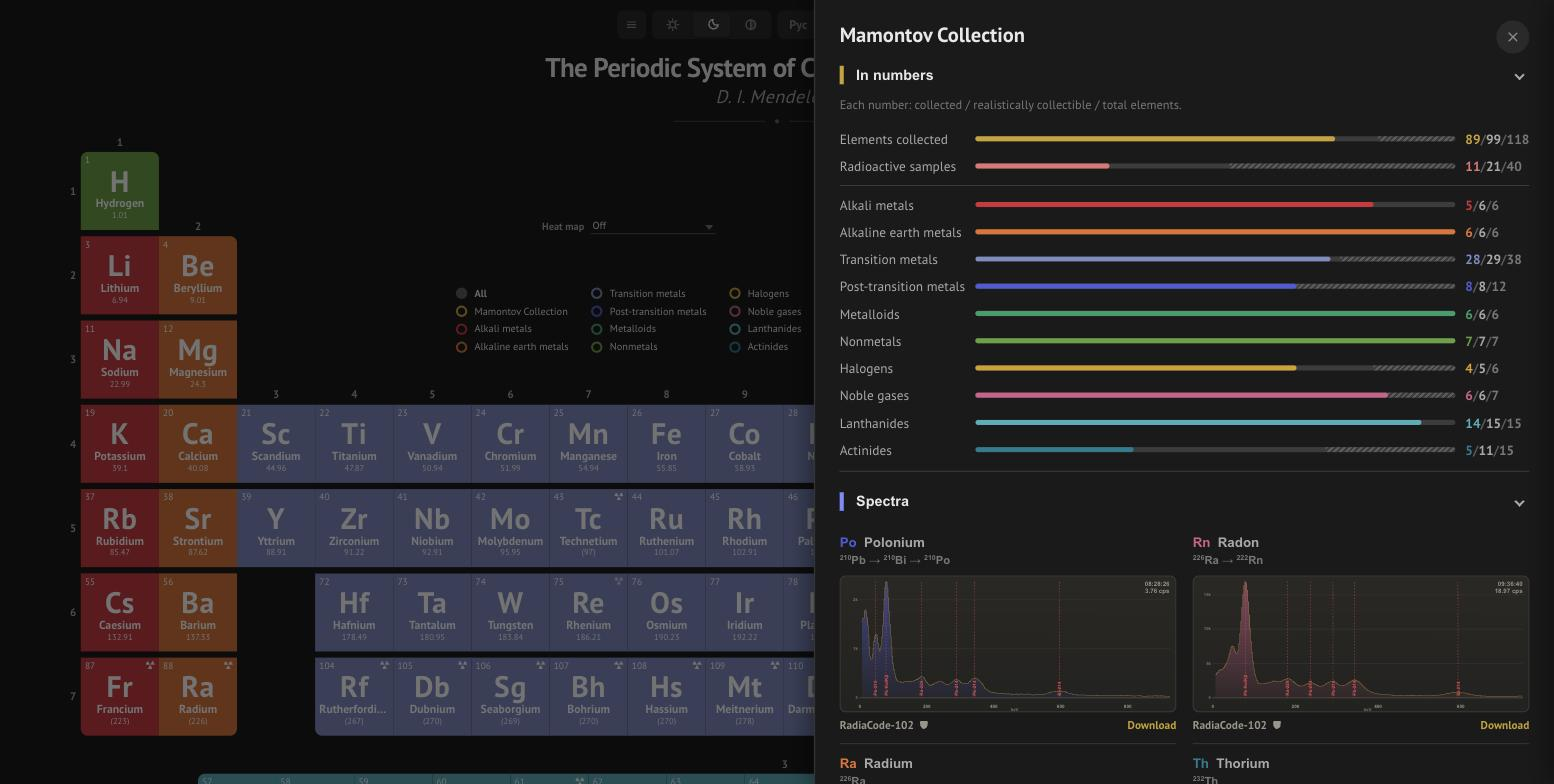
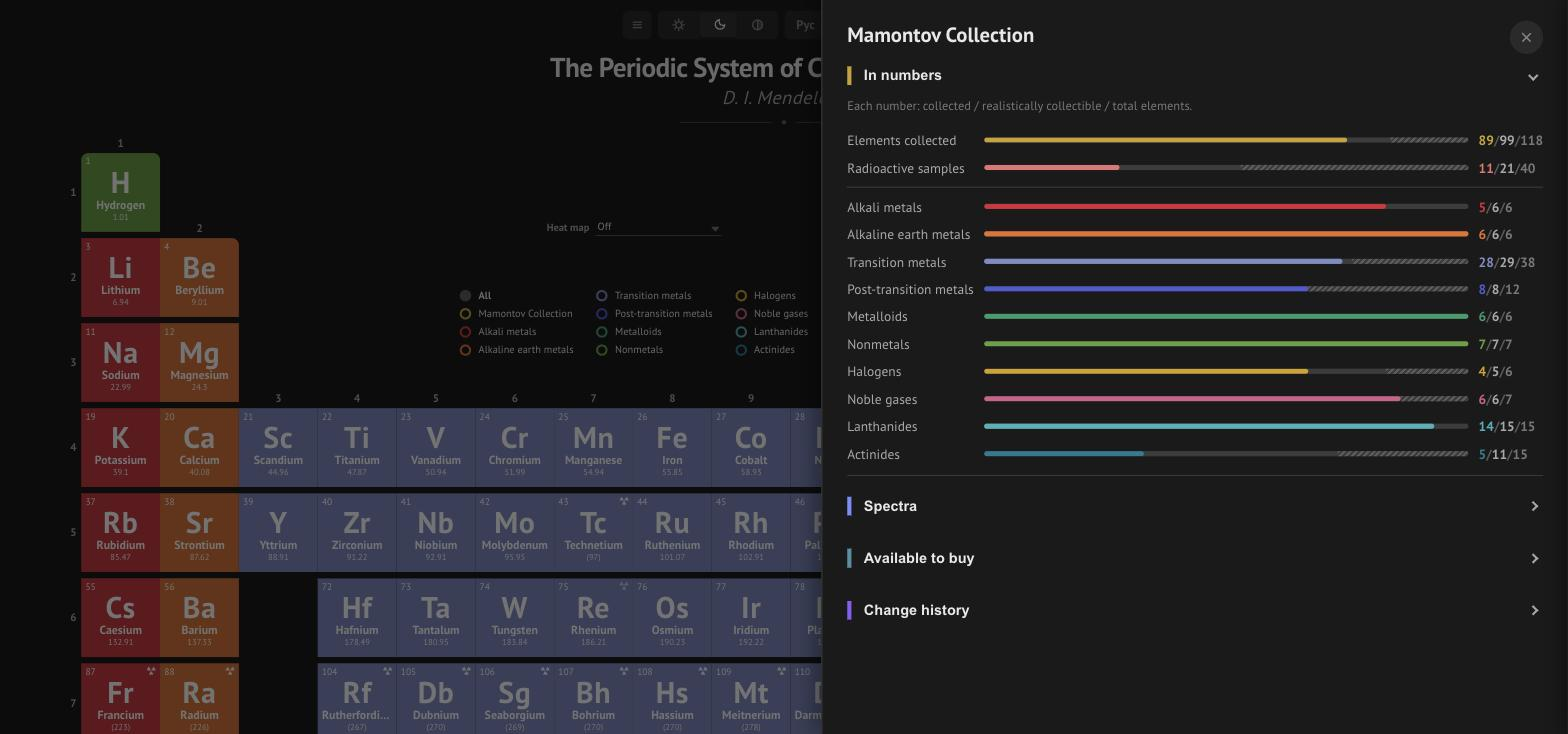
Document collection history/acquisition date and refresh screenshots
Updates all three READMEs for the acquisition-date and replacement-history
feature, the new collapsible collection-panel sections, and the share
button; retakes all 9 demo screenshots to match current UI.

diff --git a/README.ru.md b/README.ru.md
@@ -20,10 +20,11 @@
 
 - **Полная периодическая таблица** - все 118 элементов, включая f-блок (лантаноиды/актиноиды), с адаптивной раскладкой для десктопа и мобильных
 - **Карточка элемента** - 12+ разделов: общие сведения, физические и термодинамические свойства, атомные и электромагнитные характеристики, кристаллическая решётка, реакционная способность, распространённость в природе, применение
-- **Коллекция элементов** - состояние образца и контейнер, чистота, вес, изотоп, происхождение (прямой источник / продукт распада с цепочкой из нескольких изотопов), фото, интерактивный гамма-спектр - увеличение по клику, метки изотопных линий, подтверждённые по самому измерению (а не просто взятые из справочника), скачивание исходного XML
-- **Обзор коллекции** - отдельная панель со статистикой по категориям и всеми записанными спектрами в одном месте
+- **Коллекция элементов** - состояние образца и контейнер, чистота, вес, изотоп, происхождение (прямой источник / продукт распада с цепочкой из нескольких изотопов), дата появления в коллекции и полная история замен (предыдущие образцы, причина замены каждого, сохранился ли он), фото, интерактивный гамма-спектр - увеличение по клику, метки изотопных линий, подтверждённые по самому измерению (а не просто взятые из справочника), скачивание исходного XML
+- **Обзор коллекции** - отдельная панель со статистикой по категориям, всеми записанными спектрами, элементами, которые можно приобрести, и единым таймлайном всех приобретений/замен по всей коллекции, отсортированным по дате
 - **Радиоактивность** - радиоактивные элементы отмечены на таблице, карточки NFPA 704 и пиктограмм GHS, данные по изотопам и периоду полураспада
 - **География производства** - интерактивная карта на карточке каждого из 118 элементов, включая синтетические (страна лаборатории/ускорителя, где элемент получен) и промышленные газы (страны-лидеры по производству)
+- **Поделиться** - отправить или скопировать прямую ссылку на карточку любого элемента прямо из её шапки (Web Share API с резервным копированием в буфер обмена)
 - **Мультиязычность** - русский, английский, китайский (мгновенное переключение, автоопределение языка браузера)
 - **Тёмная/светлая тема** - вручную или по системным настройкам
 - **PWA** - устанавливается на устройство, работает офлайн (Workbox precache)
@@ -73,12 +74,14 @@ pnpm dev
 
 - `collectionName` / `siteTitle` / `siteUrl` - переименовать коллекцию и указать свой домен.
 - `myElements` - карта `символ → детали`. Чтобы отметить элемент своим, достаточно добавить ключ; одного `{}` уже хватает («он у меня есть, подробностей пока нет»). Поля каждой записи сгруппированы по теме, все необязательны:
-  - `physical` - `sampleState`, `container`, `purity`, `weight`, `allotrope`, `description`.
+  - `physical` - `sampleState`, `container`, `purity`, `weight`, `allotrope`, `description`, `acquiredDate`.
   - `radioactive` - `isotope`, `sourceType`, `decayParent`. Для нерадиоактивных элементов всю группу можно опустить.
   - `spectrum` - `id`, `filename`, `annotations`. Если файла измерения нет, всю группу можно опустить.
-- Если встроенного словаря `sampleState`/`container` (в [`src/locales/collection.ts`](src/locales/collection.ts)) не хватает - либо добавьте туда новую запись, либо вообще пропустите словарь и впишите готовый текст прямо в поле `physical.description` элемента - пример такого подхода есть у радиоактивных элементов в `collection.ts`. `radioactive.sourceType` - фиксированное значение `'primary'` / `'secondary'`.
+  - `history` - более ранние версии этого образца, от старых к новым, только если он когда-либо физически заменялся. У каждой записи те же поля, что и выше, плюс `retained` (сохранился ли старый образец) и `reason` (причина замены, значение из словаря `reasonLabels`). Отображается как таймлайн в модальном окне - его можно открыть иконкой часов рядом с заголовком раздела коллекции, а также из раздела «История изменений» на общей панели коллекции.
+- Если встроенного словаря `sampleState`/`container`/`reason` (в [`src/locales/collection.ts`](src/locales/collection.ts)) не хватает - либо добавьте туда новую запись, либо вообще пропустите словарь и впишите готовый текст прямо в поле `physical.description` элемента - пример такого подхода есть у радиоактивных элементов в `collection.ts`. `radioactive.sourceType` - фиксированное значение `'primary'` / `'secondary'`.
 - `physical.weight` - вес в граммах, обычный текст: `1.85` отобразится как «1.85 г», `~1.85` (с тильдой впереди) - как «~1.85 г» для оценочного, а не измеренного веса.
 - `physical.allotrope` - название конкретной аллотропной модификации, если у элемента их несколько (например «Красный фосфор» для P, «Графит» для C) - отображается отдельной строкой рядом с `sampleState`, а не вместо неё.
+- `physical.acquiredDate` - дата в формате ISO `YYYY-MM-DD`, отображается на карточке как «В коллекции с». В записи `history` означает «с какого момента была актуальна именно эта, более ранняя, версия».
 - Любое текстовое поле можно задать как обычную строку (покажется на всех трёх языках интерфейса) или как `{ ru, en, zh }`, если нужен перевод.
 
 Гамма-спектры (поля `spectrum.id`/`spectrum.filename`) - опциональны, указывайте их только если у вас правда есть файлы измерений для `src/data/spectra/`. Поле `spectrum.annotations` отмечает на графике справочные гамма/рентгеновские линии (энергия в кэВ + подпись) - добавляйте линию только убедившись, что это и задокументированная линия излучения, и она реально видна на фоне именно в вашем измерении, а не просто взята из таблицы.

diff --git a/README.md b/README.md
@@ -20,10 +20,11 @@ Live site: **[periodic.mamontov.tech](https://periodic.mamontov.tech)**
 
 - **Full periodic table** - all 118 elements, including the f-block (lanthanides/actinides), with a responsive layout for desktop and mobile
 - **Element card** - 12+ dedicated sections: overview, physical and thermodynamic properties, atomic and electromagnetic characteristics, crystal lattice, reactivity, natural abundance, applications
-- **Element collection** - sample state and container, purity, weight, isotope, origin (direct source / decay product with a multi-step decay chain), photos, an interactive gamma spectrum - click to enlarge, isotope reference lines confirmed against the actual measurement (not just copied from a table), original XML available for download
-- **Collection overview** - a dedicated panel with collection stats by category and every recorded gamma spectrum in one place
+- **Element collection** - sample state and container, purity, weight, isotope, origin (direct source / decay product with a multi-step decay chain), acquisition date and a full replacement history (previous samples, why each was replaced, whether it's still kept), photos, an interactive gamma spectrum - click to enlarge, isotope reference lines confirmed against the actual measurement (not just copied from a table), original XML available for download
+- **Collection overview** - a dedicated panel with collection stats by category, every recorded gamma spectrum, elements available to buy, and a single date-sorted timeline of every acquisition/replacement across the whole collection
 - **Radioactivity** - radioactive elements flagged on the table, NFPA 704 and GHS pictogram cards, isotope and half-life data
 - **Production geography** - an interactive map on every element's card, all 118, including synthetic ones (highlighting the discovery/production facility's country) and industrial gases (highlighting the leading producing countries)
+- **Share** - share or copy a direct link to any element card straight from its header (Web Share API with a clipboard fallback)
 - **Multilingual** - Russian, English, Chinese (instant switching, browser language auto-detection)
 - **Dark/light theme** - manual or system-based
 - **PWA** - installable on device, works offline (Workbox precache)
@@ -73,12 +74,14 @@ Forked this to track your own elements? Everything you need to change lives in *
 
 - `collectionName` / `siteTitle` / `siteUrl` - rename the collection and point it at your own domain.
 - `myElements` - a `symbol → details` map. Add a key to mark an element as yours; `{}` alone is enough ("I have it, no details yet"). Each entry groups its fields by topic, all optional:
-  - `physical` - `sampleState`, `container`, `purity`, `weight`, `allotrope`, `description`.
+  - `physical` - `sampleState`, `container`, `purity`, `weight`, `allotrope`, `description`, `acquiredDate`.
   - `radioactive` - `isotope`, `sourceType`, `decayParent`. Omit the whole group for non-radioactive elements.
   - `spectrum` - `id`, `filename`, `annotations`. Omit the whole group if you have no measurement file.
-- If the built-in `sampleState`/`container` vocabulary (in [`src/locales/collection.ts`](src/locales/collection.ts)) doesn't cover your sample, either add a new entry there, or skip it entirely and put ready-made text straight into an element's `physical.description` field - see the radioactive elements in `collection.ts` for an example. `radioactive.sourceType` is fixed to `'primary'` / `'secondary'`.
+  - `history` - earlier versions of this sample, oldest first, only if it was ever physically replaced. Each entry has the same shape as the fields above, plus `retained` (is the old sample still kept?) and `reason` (why it was replaced, from the `reasonLabels` vocabulary). Shown as a timeline in a modal, opened via the clock icon next to the Collection section header and from the collection overview panel's own History section.
+- If the built-in `sampleState`/`container`/`reason` vocabulary (in [`src/locales/collection.ts`](src/locales/collection.ts)) doesn't cover your sample, either add a new entry there, or skip it entirely and put ready-made text straight into an element's `physical.description` field - see the radioactive elements in `collection.ts` for an example. `radioactive.sourceType` is fixed to `'primary'` / `'secondary'`.
 - `physical.weight` is grams, plain text - `1.85` shows as "1.85 g", `~1.85` (leading tilde) shows as "~1.85 g" for an estimated rather than measured weight.
 - `physical.allotrope` names the specific allotrope/modification when the sample is one of several the element can take (e.g. "Red phosphorus" for P, "Graphite" for C) - shown as its own row alongside `sampleState`, not instead of it.
+- `physical.acquiredDate` is an ISO `YYYY-MM-DD` date - shown as "In collection since" on the element card. On a `history` entry it means "since when this earlier version was current".
 - Every text field accepts either a plain string (shown in all three UI languages) or `{ ru, en, zh }` if you want it translated.
 
 Gamma spectra (the `spectrum.id`/`spectrum.filename` fields) are optional - only set them if you actually have measurement files to drop into `src/data/spectra/`. `spectrum.annotations` marks reference gamma/X-ray lines on the chart (energy in keV + a label) - only add a line once you've confirmed it's both a documented emission line and actually visible against the background in your own measurement, not just copied from a table.

diff --git a/README.zh.md b/README.zh.md
@@ -20,10 +20,11 @@
 
 - **完整元素周期表** - 全部 118 个元素，包括 f 区（镧系/锕系），适配桌面与移动端的响应式布局
 - **元素卡片** - 12+ 个专项板块：概况、物理与热力学性质、原子与电磁特性、晶体结构、反应活性、自然丰度、应用
-- **元素收藏** - 样品状态与容器、纯度、重量、同位素、来源（直接来源 / 多步衰变链的衰变产物）、照片，以及交互式伽马能谱——点击放大、经实测确认的同位素参考线（而非直接照搬表格数值）、可下载原始 XML
-- **收藏总览** - 独立面板，按类别统计收藏进度，并集中展示所有已记录的能谱
+- **元素收藏** - 样品状态与容器、纯度、重量、同位素、来源（直接来源 / 多步衰变链的衰变产物）、入藏日期以及完整的更换历史（历史样品、每次更换的原因、是否仍然保留）、照片，以及交互式伽马能谱——点击放大、经实测确认的同位素参考线（而非直接照搬表格数值）、可下载原始 XML
+- **收藏总览** - 独立面板，按类别统计收藏进度，集中展示所有已记录的能谱、可购买的元素，以及整个收藏按日期排序的完整入藏/更换时间线
 - **放射性标注** - 表格中标出放射性元素，提供 NFPA 704 与 GHS 象形图卡片、同位素与半衰期数据
 - **产地** - 全部118个元素卡片上都有的交互式地图，包括合成元素（标示获得该元素的实验室/加速器所在国）和工业气体（标示主要生产国）
+- **分享** - 直接从元素卡片头部分享或复制该元素的链接（使用 Web Share API，并支持复制到剪贴板作为后备方案）
 - **多语言** - 俄语、英语、中文（即时切换，自动检测浏览器语言）
 - **深色/浅色主题** - 手动切换或跟随系统
 - **PWA** - 可安装到设备，支持离线使用（Workbox 预缓存）
@@ -73,12 +74,14 @@ Fork 了本项目、想记录自己的元素收藏？需要修改的内容全部
 
 - `collectionName` / `siteTitle` / `siteUrl` - 重命名收藏名称，并换成你自己的域名。
 - `myElements` - 一个"元素符号 → 详情"的映射表。只要加上一个键就代表这个元素归你所有；空对象 `{}` 已经足够（"我有这个元素，细节以后再补"）。每条记录的字段按主题分组，均为可选：
-  - `physical` - `sampleState`、`container`、`purity`、`weight`、`allotrope`、`description`。
+  - `physical` - `sampleState`、`container`、`purity`、`weight`、`allotrope`、`description`、`acquiredDate`。
   - `radioactive` - `isotope`、`sourceType`、`decayParent`。非放射性元素可以整组省略。
   - `spectrum` - `id`、`filename`、`annotations`。没有测量文件时可以整组省略。
-- 如果内置的 `sampleState`/`container` 词汇表（在 [`src/locales/collection.ts`](src/locales/collection.ts) 中）不够用，你可以在那里添加新条目，也可以完全跳过词汇表，直接把现成的文字写进该元素的 `physical.description` 字段 - `collection.ts` 里的放射性元素就是这么做的，可以参考。`radioactive.sourceType` 固定取值为 `'primary'` 或 `'secondary'`。
+  - `history` - 该样品更早的版本，从旧到新排列，仅当样品曾经被实际更换过时才需要。每条记录的字段与上面相同，外加 `retained`（旧样品是否仍然保留）和 `reason`（更换原因，取自 `reasonLabels` 词汇表）。会以时间线的形式显示在模态框中，可通过收藏区块标题旁的时钟图标打开，也可以从收藏总览面板的「变更历史」区块打开。
+- 如果内置的 `sampleState`/`container`/`reason` 词汇表（在 [`src/locales/collection.ts`](src/locales/collection.ts) 中）不够用，你可以在那里添加新条目，也可以完全跳过词汇表，直接把现成的文字写进该元素的 `physical.description` 字段 - `collection.ts` 里的放射性元素就是这么做的，可以参考。`radioactive.sourceType` 固定取值为 `'primary'` 或 `'secondary'`。
 - `physical.weight` 是以克为单位的普通文本 - `1.85` 显示为「1.85 克」，`~1.85`（前面加波浪号）显示为「~1.85 克」，表示估算而非实测的重量。
 - `physical.allotrope` 用于标明该元素若有多种同素异形体时样品的具体形态（例如磷的「红磷」、碳的「石墨」）- 作为独立一行显示在 `sampleState` 旁边，而非取代它。
+- `physical.acquiredDate` 是 ISO `YYYY-MM-DD` 格式的日期 - 在元素卡片上显示为「收藏起始」。在 `history` 记录中则表示「这个更早的版本从何时起是当时的现状」。
 - 任何文本字段既可以写成一个普通字符串（在三种界面语言下都显示同一内容），也可以写成 `{ ru, en, zh }` 对象来分别翻译。
 
 伽马能谱（`spectrum.id`/`spectrum.filename` 字段）是可选的 - 只有当你确实有测量文件要放进 `src/data/spectra/` 时才需要填写。`spectrum.annotations` 字段在图表上标出参考伽马/X 射线谱线（能量单位 keV + 标签）- 只有当它既是该同位素的已记录发射线，又确实能在你自己的测量本底之上看到时，才值得添加，而不是直接照抄表格数值。
